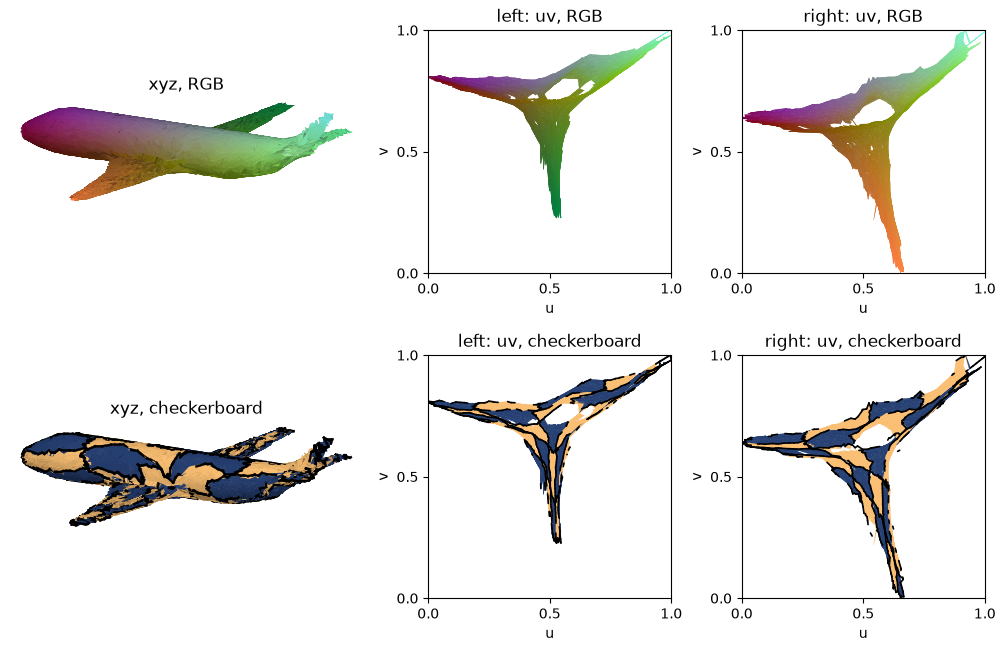
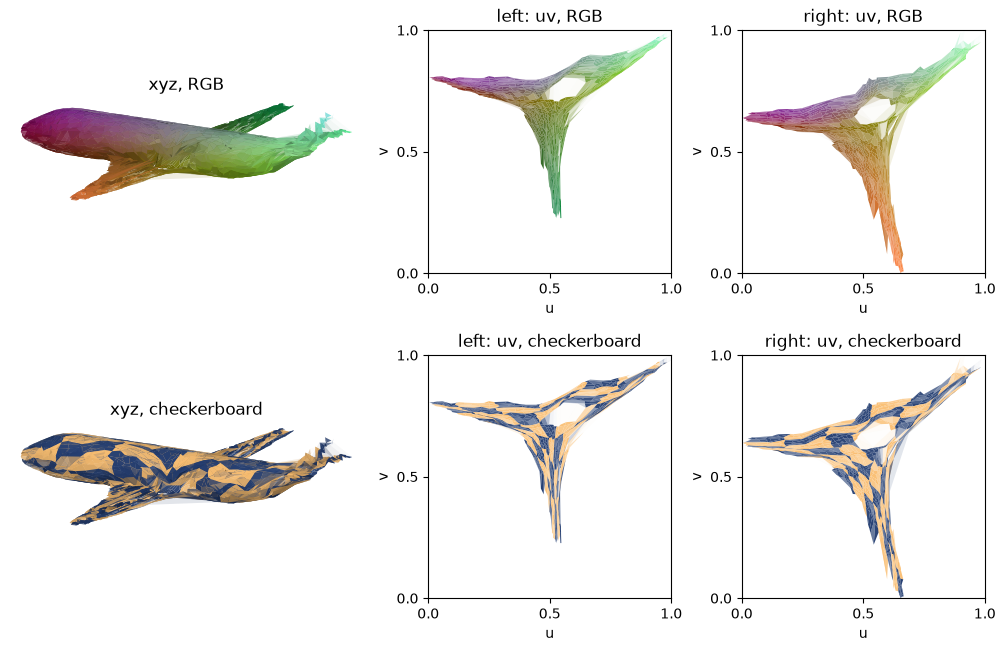
checkerboard visualisation

diff --git a/src/flatpoints/viz.py b/src/flatpoints/viz.py
@@ -1,90 +1,60 @@
-"""Plots of a `Flat`, drawn in 2D: projection, occlusion and shading are done here.
+"""Plots of a `Flat`: `plot` shows the surface in 3D and in (u, v), `imshow` the grids.
 
-`plot` shows the surface in 3D and in (u, v), `imshow` shows the grids as images. Two
-colourings: RGB = normalised x, y, z, and a checkerboard on the grid cells with black
-borders. A good flattening gives smooth colours and regular, undistorted squares.
+Two colourings: RGB = normalised x, y, z, and a checkerboard on the grid cells. A good
+flattening gives smooth colours and regular, undistorted squares.
 
-The surface is drawn as the quads between neighbouring cells of the grid, sorted back to
-front in 3D (painter's algorithm) and shaded. Quads that leave the surface (the grid links
-two parts close in space but not on the surface) are drawn in light grey.
+The surface is drawn as the quads between neighbouring cells; the 3D view is projected and
+sorted back to front (painter's algorithm), with a simple shading. A quad fades out the
+more likely the grid jumps there: the longer its longest side in (u, v) compared with the
+sides around it. Opaque for regular sides, ALPHA at JUMP times longer, ~0 beyond.
 """
 import matplotlib.pyplot as plt
 import numpy as np
-from matplotlib.collections import LineCollection, PolyCollection
-from scipy.ndimage import gaussian_filter
-from scipy.spatial import cKDTree
+from matplotlib.collections import PolyCollection
+from scipy.ndimage import gaussian_filter, label, median_filter
 
-# Checkerboard (dark blue, light orange), its borders, and the quads off the surface.
-CHECKER = np.array([[0.15, 0.25, 0.45], [0.98, 0.75, 0.45]])
-BORDER, TORN = np.zeros(3), np.full(3, 0.92)
-# Width of the borders: in points (2D panels), relative to the object size (3D panels).
-LINE_2D, LINE_3D = 1.2, 0.006
-# 3D view: elevation, and azimuth offset from a pure side view (degrees).
-ELEV, AZIM = 15, 30
-AMBIENT = 0.55  # shading: brightness of a surface seen edge-on (1 facing the light)
-# A quad leaves the surface if its centre or the middle of one of its sides is further
-# than OFF x the typical spacing between points from all the points of the cloud.
-OFF = 4
+CHECKER = np.array([[0.15, 0.25, 0.45], [0.98, 0.75, 0.45]])  # dark blue, light orange
+JUMP, ALPHA = 5, 0.5  # opacity ALPHA when a side is JUMP times the median side around it
+TAU = (JUMP - 1) / np.sqrt(-np.log(ALPHA))  # width of the fade, see `_alpha`
 
 
-def plot(flat, squares=4):
+def plot(flat, squares=8):
     """First column: all the faces in 3D. Then one column per face in (u, v).
-    First row coloured by RGB, second row by checkerboard.
-
-    Args:
-        squares: number of checkerboard squares along each side of the grid.
-    """
-    k = len(flat.faces)
-    xyz = {f: flat.points[flat.indexes[f]] for f in flat.faces}
-    on = _on_surface(flat, xyz, squares)
+    First row coloured by RGB, second row by a checkerboard of `squares` x `squares`."""
+    st = max(1, flat._n // 30)  # downsampling for faster plot
+    s, k = slice(None, None, st), len(flat.faces)
+    xyz = {f: flat.points[flat.indexes[f][s, s]] for f in flat.faces}
+    uv = {f: flat.isomap[f][s, s] for f in flat.faces}
+    rgb = {f: c[s, s] for f, c in _rgb(flat).items()}
+    m = len(next(iter(uv.values())))  # side of the drawn grids
+    # Opacity on the full grid: a drawn quad takes the lowest of the quads it covers
+    alpha = {f: np.minimum.reduce([a[i::st, j::st][:m - 1, :m - 1] for i in range(st)
+                                   for j in range(st)])
+             for f, a in ((f, _alpha(flat.isomap[f])) for f in flat.faces)}
     proj = _camera(flat._lateral, flat._up)
     fig = plt.figure(figsize=(4 + 3 * k, 6.5), layout="constrained")
     grid = fig.add_gridspec(2, 1 + k, width_ratios=[1.5] + [1] * k)
-    for row, label in enumerate(("RGB", "checkerboard")):
-        colors = {f: _quad_colors(flat, f, label, squares) for f in flat.faces}
-        checker = label == "checkerboard"
-
-        ax = fig.add_subplot(grid[row, 0])
-        _draw3d(ax, [(xyz[f], colors[f], on[f]) for f in flat.faces], proj, squares,
-                checker)
-        ax.set_title(f"xyz, {label}")
-
-        for col, f in enumerate(flat.faces, start=1):
-            ax = fig.add_subplot(grid[row, col])
-            quads, (keep, seg_keep) = _quads(flat.isomap[f]), on[f]
-            c = np.where(keep[..., None], colors[f], TORN).reshape(-1, 3)
-            ax.add_collection(PolyCollection(quads.reshape(-1, 4, 2), facecolors=c,
-                                             edgecolors=c, linewidths=0.3))
-            if checker:
-                ax.add_collection(LineCollection(_segments(flat.isomap[f], squares)[seg_keep],
-                                                 colors=[BORDER], linewidths=LINE_2D,
-                                                 capstyle="round"))
-            ax.set(aspect="equal", xlim=(0, 1), ylim=(0, 1), xticks=[0, 0.5, 1],
-                   yticks=[0, 0.5, 1], xlabel="u", ylabel="v", title=f"{f}: uv, {label}")
+    for row, name in enumerate(("RGB", "checkerboard")):
+        col = {f: _checker(m, squares)[:-1, :-1] if row else _quads(rgb[f]).mean(2)
+               for f in flat.faces}
+        ax = fig.add_subplot(grid[row, 0], title=f"xyz, {name}")
+        _draw3d(ax, [(xyz[f] @ proj.T, col[f], alpha[f]) for f in flat.faces])
+        for c, f in enumerate(flat.faces, start=1):
+            ax = fig.add_subplot(grid[row, c], aspect="equal", xlim=(0, 1), ylim=(0, 1),
+                                 xticks=[0, .5, 1], yticks=[0, .5, 1], xlabel="u", ylabel="v",
+                                 title=f"{f}: uv, {name}")
+            _add(ax, _quads(uv[f]).reshape(-1, 4, 2), _rgba(col[f], alpha[f]).reshape(-1, 4))
     return fig
 
 
 def imshow(flat, colors="rgb", squares=4, sigma=2):
-    """The grids as images, one per face.
-
-    Args:
-        colors: "rgb" (normalised x, y, z of each cell's point) or "checkerboard".
-        sigma: Gaussian smoothing of the RGB image, in cells (0: none).
-    """
-    if colors == "rgb":
-        images = {f: gaussian_filter(img, (sigma, sigma, 0), mode="nearest")
-                  for f, img in _rgb(flat).items()}
-    else:
-        i, j = np.indices((flat._n, flat._n))
-        tile = int(np.ceil(flat._n / squares))
-        image = CHECKER[(i // tile + j // tile) % 2]
-        edge = np.isin(np.arange(flat._n), _edges(flat._n, squares))
-        image[edge[:, None] | edge[None, :]] = BORDER
-        images = dict.fromkeys(flat.faces, image)
+    """The grids as images, one per face: colors "rgb" (normalised x, y, z, smoothed by a
+    Gaussian of `sigma` cells) or "checkerboard"."""
     fig, axes = plt.subplots(1, len(flat.faces), figsize=(4 * len(flat.faces), 4.4),
                              squeeze=False, layout="constrained")
-    for ax, f in zip(axes[0], flat.faces):
-        ax.imshow(images[f], interpolation="nearest")
+    for ax, (f, im) in zip(axes[0], _rgb(flat).items()):
+        ax.imshow(gaussian_filter(im, (sigma, sigma, 0)) if colors == "rgb"
+                  else _checker(flat._n, squares), interpolation="nearest")
         ax.set_title(f"{f}: grid, {colors}")
         ax.set_axis_off()
     return fig
@@ -97,104 +67,64 @@ def _rgb(flat):
             for f in flat.faces}
 
 
-def _edges(n, squares):
-    """Rows (or columns) on the edge of a checkerboard square: the first and the last of
-    each square, e.g. n=20, squares=4: 0, 4, 5, 9, 10, 14, 15, 19."""
-    tile = int(np.ceil(n / squares))
-    r = np.arange(n)
-    return r[(r % tile == 0) | (r % tile == tile - 1) | (r == n - 1)]
+def _checker(n, squares):
+    """(n, n, 3) colours of the cells of an n x n grid: `squares` x `squares` squares."""
+    i, j = np.indices((n, n)) // int(np.ceil(n / squares))
+    return CHECKER[(i + j) % 2]
+
+
+def _rgba(rgb, alpha):
+    return np.concatenate([rgb, alpha[..., None]], -1)
 
 
 def _quads(grid):
-    """The (n-1)^2 quads between neighbouring cells of an (n, n, d) grid of coordinates,
-    as an (n-1, n-1, 4, d) array."""
+    """(n-1, n-1, 4, d) the quads between neighbouring cells of an (n, n, d) grid."""
     return np.stack([grid[:-1, :-1], grid[:-1, 1:], grid[1:, 1:], grid[1:, :-1]], axis=2)
 
 
-def _on_surface(flat, xyz, squares):
-    """{face: (quads (n-1, n-1) bool, segments (S,) bool)}: True where the quad (or the
-    checkerboard segment) stays on the surface, i.e. its centre and the middles of its
-    sides are within OFF x the typical spacing of a point of the cloud."""
-    tree = cKDTree(flat.points)
-    off = OFF * np.median(tree.query(flat.points, 2)[0][:, 1])
-    out = {}
-    for f in flat.faces:
-        q = _quads(xyz[f])
-        probes = np.concatenate([q.mean(2, keepdims=True), (q + np.roll(q, 1, 2)) / 2], 2)
-        quads = (tree.query(probes.reshape(-1, 3))[0] <= off).reshape(probes.shape[:3])
-        seg = _segments(xyz[f], squares)
-        t = np.linspace(0, 1, 5)[:, None, None]  # 5 probes along each segment
-        probes = (seg[:, 0] + t * (seg[:, 1] - seg[:, 0])).reshape(-1, 3)
-        out[f] = quads.all(-1), (tree.query(probes)[0] <= off).reshape(5, -1).all(0)
-    return out
+def _add(ax, polys, rgba):
+    """Draw the polygons; edges in the face colour, except on see-through ones (no seams)."""
+    ax.add_collection(PolyCollection(polys, facecolors=rgba, linewidths=0.3,
+                                     edgecolors=np.where(rgba[:, 3:] < 1, 0, rgba)))
 
 
-def _quad_colors(flat, f, label, squares):
-    """(n-1, n-1, 3) colour of each quad: mean RGB of its corners, or its checkerboard
-    square."""
-    if label == "RGB":
-        return _quads(_rgb(flat)[f]).mean(axis=2)
-    i, j = np.indices((flat._n - 1, flat._n - 1))
-    tile = int(np.ceil(flat._n / squares))
-    return CHECKER[(i // tile + j // tile) % 2]
+def _alpha(uv):
+    """(n-1, n-1) opacity of the quads, from r = longest side of the quad / median side
+    around it (11 x 11 cells): exp(-((r - 1) / TAU)^2) for r > 1, else 1. Flat near r = 1
+    (ordinary irregularities stay opaque), ALPHA at r = JUMP, ~0 beyond. A jump is a seam
+    of several sides: areas of fewer than 6 quads with r > JUMP (local defects) stay opaque."""
+    d, r = [L / np.maximum(median_filter(L, 11), 1e-12) for L in
+            (np.linalg.norm(np.diff(uv, axis=a), axis=-1) for a in (0, 1))]
+    r = np.maximum.reduce([d[:, :-1], d[:, 1:], r[:-1], r[1:]])
+    areas = label(r > JUMP)[0]
+    small = (areas > 0) & (np.bincount(areas.ravel())[areas] < 6)
+    return np.where(small, 1.0, np.exp(-(np.maximum(r - 1, 0) / TAU) ** 2))
 
 
-def _segments(grid, squares):
-    """(S, 2, d) segments of the checkerboard borders, on an (n, n, d) grid of
-    coordinates: the outline of the grid, and the lines between two squares (half-way
-    between the last row of a square and the first of the next)."""
-    n = len(grid)
-    tile = int(np.ceil(n / squares))
-    rows = [grid[0], grid[-1]] + [(grid[r - 1] + grid[r]) / 2 for r in range(tile, n, tile)]
-    cols = [grid[:, 0], grid[:, -1]] + \
-        [(grid[:, c - 1] + grid[:, c]) / 2 for c in range(tile, n, tile)]
-    return np.concatenate([np.stack([line[:-1], line[1:]], axis=1) for line in rows + cols])
-
-
-def _camera(lateral, up):
+def _camera(lateral, up, elev=15, azim=30):
     """(3, 3) rotation from xyz to the camera axes (right, up, towards the viewer): a side
-    view from the `lateral` axis, from the side where the remaining axis points right (as
-    u does in the 2D panels), then turned by AZIM around `up` and raised by ELEV."""
+    view from the `lateral` axis, with the remaining axis to the right (as u in the 2D
+    panels), turned by `azim` degrees around `up` and raised by `elev` degrees."""
     e = np.eye(3)
     l, u = "xyz".index(lateral), "xyz".index(up)
-    h = e[3 - l - u]
-    side = e[l] * np.sign(np.cross(e[u], e[l]) @ h)  # eye direction of the side view
-    az, el = np.radians(AZIM), np.radians(ELEV)
-    flat_eye = np.cos(az) * side + np.sin(az) * np.cross(e[u], side)
-    towards = np.cos(el) * flat_eye + np.sin(el) * e[u]
-    right = np.cross(e[u], towards)
-    right /= np.linalg.norm(right)
-    return np.stack([right, np.cross(towards, right), towards])
+    side = e[l] * np.sign(np.cross(e[u], e[l]) @ e[3 - l - u])
+    az, el = np.radians(azim), np.radians(elev)
+    eye = np.cos(el) * (np.cos(az) * side + np.sin(az) * np.cross(e[u], side)) \
+        + np.sin(el) * e[u]
+    right = np.cross(e[u], eye) / np.linalg.norm(np.cross(e[u], eye))
+    return np.stack([right, np.cross(eye, right), eye])
 
 
-def _draw3d(ax, faces, proj, squares, checker):
-    """Draw the faces [(xyz (n, n, 3), quad colours (n-1, n-1, 3), `_on_surface` masks)]
-    seen through `proj`, back to front, with the checkerboard borders as black ribbons."""
-    polys, colors, depths = [], [], []
-    extent = np.ptp(np.concatenate([g.reshape(-1, 3) for g, _, _ in faces]) @ proj.T, 0)
+def _draw3d(ax, faces):
+    """Draw the faces [(projected xyz (n, n, 3), quad colours, `_alpha`)] back to front,
+    shaded."""
     light = np.array([-0.3, 0.5, 1]) / np.linalg.norm([-0.3, 0.5, 1])
-    for grid, c, (keep, seg_keep) in faces:
-        q, keep = _quads(grid @ proj.T).reshape(-1, 4, 3), keep.ravel()
-        c = np.where(keep[:, None], c.reshape(-1, 3), TORN)
-        normal = np.cross(q[:, 2] - q[:, 0], q[:, 3] - q[:, 1])
-        normal /= np.maximum(np.linalg.norm(normal, axis=1, keepdims=True), 1e-12)
-        shade = AMBIENT + (1 - AMBIENT) * np.abs(normal @ light)
-        polys.append(q[:, :, :2])
-        colors.append(np.where(keep[:, None], c * shade[:, None], TORN))
-        depths.append(q[:, :, 2].mean(1))
-        if checker:  # ribbons, slightly in front of the surface they lie on
-            seg = _segments(grid @ proj.T, squares)[seg_keep]
-            a, b = seg[:, 0, :2], seg[:, 1, :2]
-            d = (b - a) / np.maximum(np.linalg.norm(b - a, axis=1, keepdims=True), 1e-12)
-            w = LINE_3D * extent[:2].max() / 2
-            a, b, side = a - w * d, b + w * d, w * np.stack([-d[:, 1], d[:, 0]], 1)
-            polys.append(np.stack([a - side, b - side, b + side, a + side], axis=1))
-            colors.append(np.tile(BORDER, (len(seg), 1)))
-            depths.append(seg[:, :, 2].mean(1) + 0.01 * extent[2])
-    order = np.argsort(np.concatenate(depths))  # far first
-    polys, colors = np.concatenate(polys)[order], np.concatenate(colors)[order]
-    ax.add_collection(PolyCollection(polys, facecolors=colors, edgecolors=colors,
-                                     linewidths=0.3))
+    q = np.concatenate([_quads(g).reshape(-1, 4, 3) for g, _, _ in faces])
+    c = np.concatenate([_rgba(c, a).reshape(-1, 4) for _, c, a in faces])
+    n = np.cross(q[:, 2] - q[:, 0], q[:, 3] - q[:, 1])
+    c[:, :3] *= (0.55 + 0.45 * abs(n @ light) / np.maximum(np.linalg.norm(n, axis=1), 1e-12))[:, None]
+    order = np.argsort(q[:, :, 2].mean(1))  # far first
+    _add(ax, q[order, :, :2], c[order])
     ax.autoscale_view()
     ax.set_aspect("equal")
     ax.set_axis_off()

diff --git a/exemple.py b/exemple.py
@@ -1,17 +1,18 @@
+"""Usage: python exemple.py --cow   (or any model of data/: --dragon, --bunny, ...)"""
+import sys
+
 import numpy as np
 import src.flatpoints as fp
 import matplotlib.pyplot as plt
 
 if __name__ == "__main__":
-    model = "dragon"
+    model = sys.argv[1].lstrip("-") if len(sys.argv) > 1 else "cow"
     points = np.load(f"data/{model}_points.npy")   # (N, 3)
+    points = np.random.permutation(points)
     print(points.shape)
 
     flat = fp.Flat(points, single_face=False, verbose=False)
 
-    fig = fp.plot(flat, squares = 5)
+    fig = fp.plot(flat)
     fig.savefig(f"plots/{model}.png")
-    plt.show()
-
-    fp.imshow(flat)
     plt.show()
